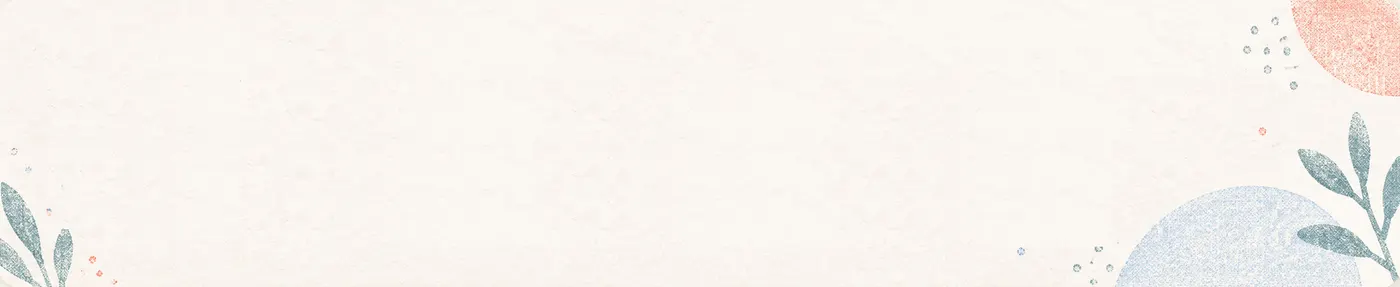
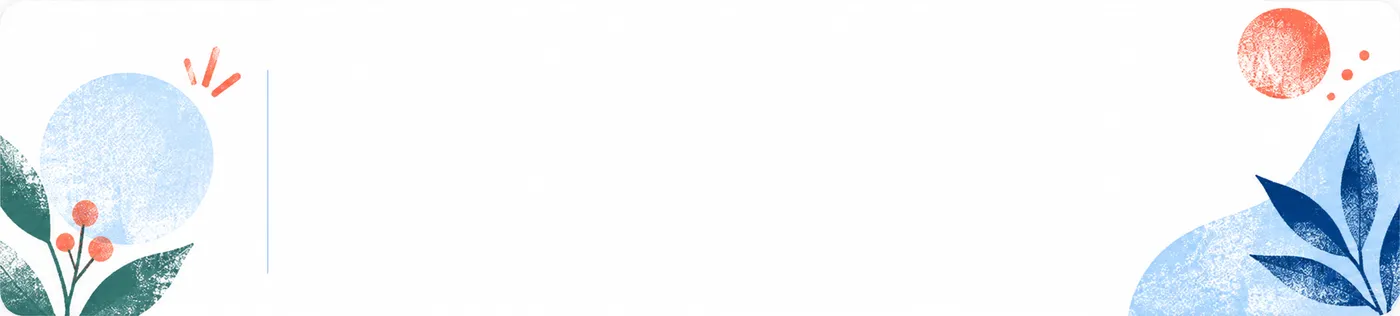
1-1-3 S1 1.1 : nouveau fond de carte (rond, feuilles, taches)
Le fond fourni porte le rond bleu de l'icône, ses petits traits et le
trait vertical : la carte garde les proportions de l'image, l'icône se
pose dans le rond peint et le texte commence après le trait ; le rond,
l'étincelle et le séparateur dessinés en CSS sont retirés.

Changed region(s): [[0.7679, 0.0, 1.0, 1.0], [0.0, 0.1672, 0.1843, 1.0], [0.7064, 0.8641, 0.7371, 0.892]]

diff --git a/atelier-vente/1-1-3/css/s1.css b/atelier-vente/1-1-3/css/s1.css
@@ -379,6 +379,17 @@
 /* 1.1 · d'après la maquette : la carte sur son fond peint (papier, feuilles,
    taches), sans contour ; « 4 restantes » seul en haut, sans la frise ; le
    bouton « Revenir à la précédente » sans contour. */
-.xp-card { border: 0; background: #fbf8f2 url('../assets/illustrations/s1/reflexe-carte.webp') center / cover no-repeat; }
+/* Le fond peint porte le rond bleu de l'icône, ses petits traits et le
+   trait vertical (mesurés sur l'image de 1954 × 441 : rond centré à 9 %
+   de la largeur et à mi-hauteur, 12,3 % de diamètre ; trait à 19,1 %).
+   La carte garde les proportions de l'image ; l'icône se pose dans le rond
+   peint, le texte commence après le trait. */
+.xp-card { aspect-ratio: 1954 / 441; display: flex; flex-direction: column; justify-content: center; padding: 14px 4% 14px 22%; border: 0; background: #fff url('../assets/illustrations/s1/reflexe-carte.webp') center / 100% 100% no-repeat; }
+.xp-card .xp-tag { position: absolute; top: 9%; left: 2.2%; }
+.xp-card .xp-card-body { margin-top: 0; }
+.xp-card .xp-symbol { position: absolute; left: 9%; top: 50%; width: 12.3%; height: auto; aspect-ratio: 1; transform: translate(-50%, -50%); background: none; }
+.xp-card .xp-symbol::after { display: none; }
+.xp-card .xp-symbol .icon { width: 40%; height: auto; }
+.xp-card .xp-card-words { margin-left: 0; padding: 0; border-left: 0; }
 .xp-top { display: flex; justify-content: flex-end; }
 .xp-page .k-bar .button.secondary { border-color: transparent; box-shadow: none; }
